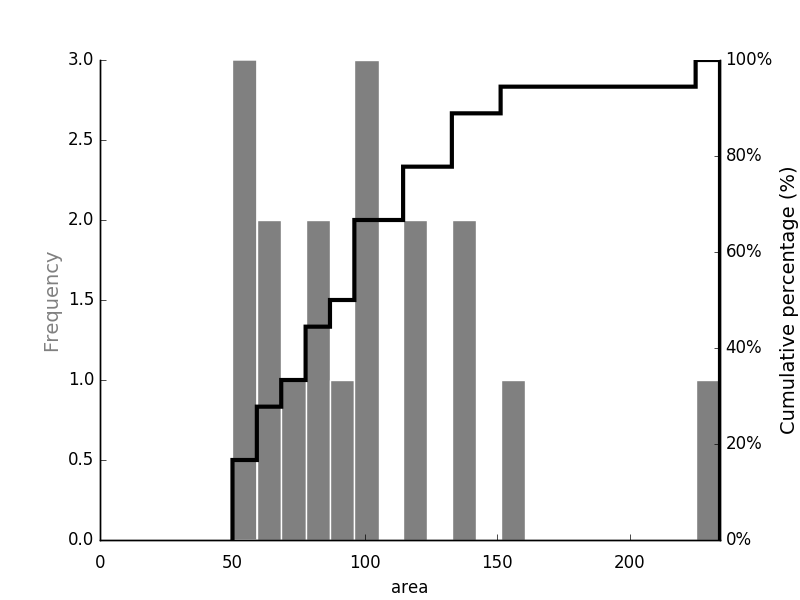
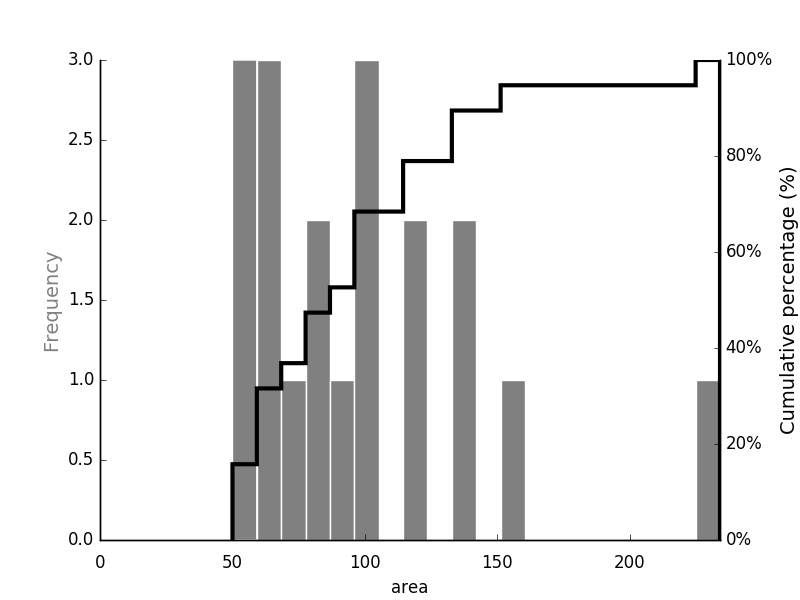
fix the handling od the aggregates function for calculation and filtering of bubbles

diff --git a/examples/example_bubble.py b/examples/example_bubble.py
@@ -2,7 +2,7 @@ import matplotlib.pyplot as plt
 
 from bubblekicker.bubblekicker import (BubbleKicker, batchbubblekicker,
                                        bubble_properties_calculate,
-                                       bubble_properties_filter,
+                                       _bubble_properties_filter,
                                        bubble_properties_plot)
 
 from bubblekicker.pipelines import CannyPipeline, AdaptiveThresholdPipeline
@@ -60,20 +60,6 @@ bubbler.clear_border_skimage()
 bubbler.plot()
 bubbler.what_have_i_done()
 
-###############
-# EXAMPLE 3: running a batch sequence
-###############
-
-res = batchbubblekicker('examples/data', 'red',
-                        AdaptiveThresholdPipeline,
-                        91, 18, 3, 1, 1)
-print(res)
-
-
-###############
-# EXAMPLE 4: Some other functions
-###############
-
 # switch color channel
 bubbler = BubbleKicker('drafts/0325097m_0305.tif', channel='red')
 print(bubbler.what_channel())
@@ -83,30 +69,41 @@ bubbler.switch_channel('green')
 print(bubbler.what_channel())
 bubbler.plot()
 
-# derive and PLOT the bubble properties as a table
+###############
+# EXAMPLE 3: running a batch sequence
+###############
+
+res = batchbubblekicker('examples/data', 'red',
+                        AdaptiveThresholdPipeline,
+                        91, 18, 3, 1, 1)
+print(res)
+
+###############
+# EXAMPLE 4: Property functions
+###############
+
+# derive and PLOT the bubble properties as a table with no filter
 bubbler = CannyPipeline('drafts/0325097m_0305.tif', channel='red')
 result = bubbler.run([120, 180], 3, 3, 1, 1)
-nbubbles, marker_image, props = bubble_properties_calculate(result)
-filtered_bubbles = bubble_properties_filter(props)
-fig, axs = bubble_properties_plot(filtered_bubbles, "equivalent_diameter")
+props = bubble_properties_calculate(result, rules={})
+fig, axs = bubble_properties_plot(props, "equivalent_diameter")
 fig.savefig("examples/output_eq_diameter.png")
-fig, axs = bubble_properties_plot(filtered_bubbles, "area")
+fig, axs = bubble_properties_plot(props, "area")
 fig.savefig("examples/output_area.png")
 
 # filter bubble properties based on a DEFAULT filter
 bubbler = CannyPipeline('drafts/0325097m_0305.tif', channel='red')
 result = bubbler.run([120, 180], 3, 3, 1, 1)
-nbubbles, marker_image, props = bubble_properties_calculate(result)
-filtered_bubbles = bubble_properties_filter(props)
-print(filtered_bubbles)
+props = bubble_properties_calculate(result)
+print(props)
 
 # filter bubble properties based on CUSTOM filter ruleset
 custom_filter = {'circularity_reciprocal': {'min': 0.2, 'max': 1.6},
                  'convexity': {'min': 1.92}}
 bubbler = CannyPipeline('drafts/0325097m_0305.tif', channel='red')
 result = bubbler.run([120, 180], 3, 3, 1, 1)
-nbubbles, marker_image, props = bubble_properties_calculate(result)
-filtered_bubbles = bubble_properties_filter(props, custom_filter)
-print(filtered_bubbles)
+props = bubble_properties_calculate(result,
+                                                  rules=custom_filter)
+print(props)
 
 plt.show()

diff --git a/bubblekicker/bubblekicker.py b/bubblekicker/bubblekicker.py
@@ -316,7 +316,8 @@ def _bubble_properties_filter(property_table,
     return bubble_props
 
 
-def bubble_properties_calculate(binary_image, rules=DEFAULT_FILTERS)
+def bubble_properties_calculate(binary_image,
+                                rules=DEFAULT_FILTERS):
     """
 
     :param binary_image:
@@ -327,10 +328,9 @@ def bubble_properties_calculate(binary_image, rules=DEFAULT_FILTERS)
     nbubbles, marker_image, \
         prop_table = _bubble_properties_table(binary_image)
     # filter based on the defined rules
-    properties, id_image = _bubble_properties_filter(prop_table,
-                                                     marker_image,
-                                                     rules)
-    return properties, id_image
+    properties = _bubble_properties_filter(prop_table, rules) #, id_image
+    return properties # id_image,
+
 
 def bubble_properties_plot(property_table,
                            which_property="equivalent_diameter",
